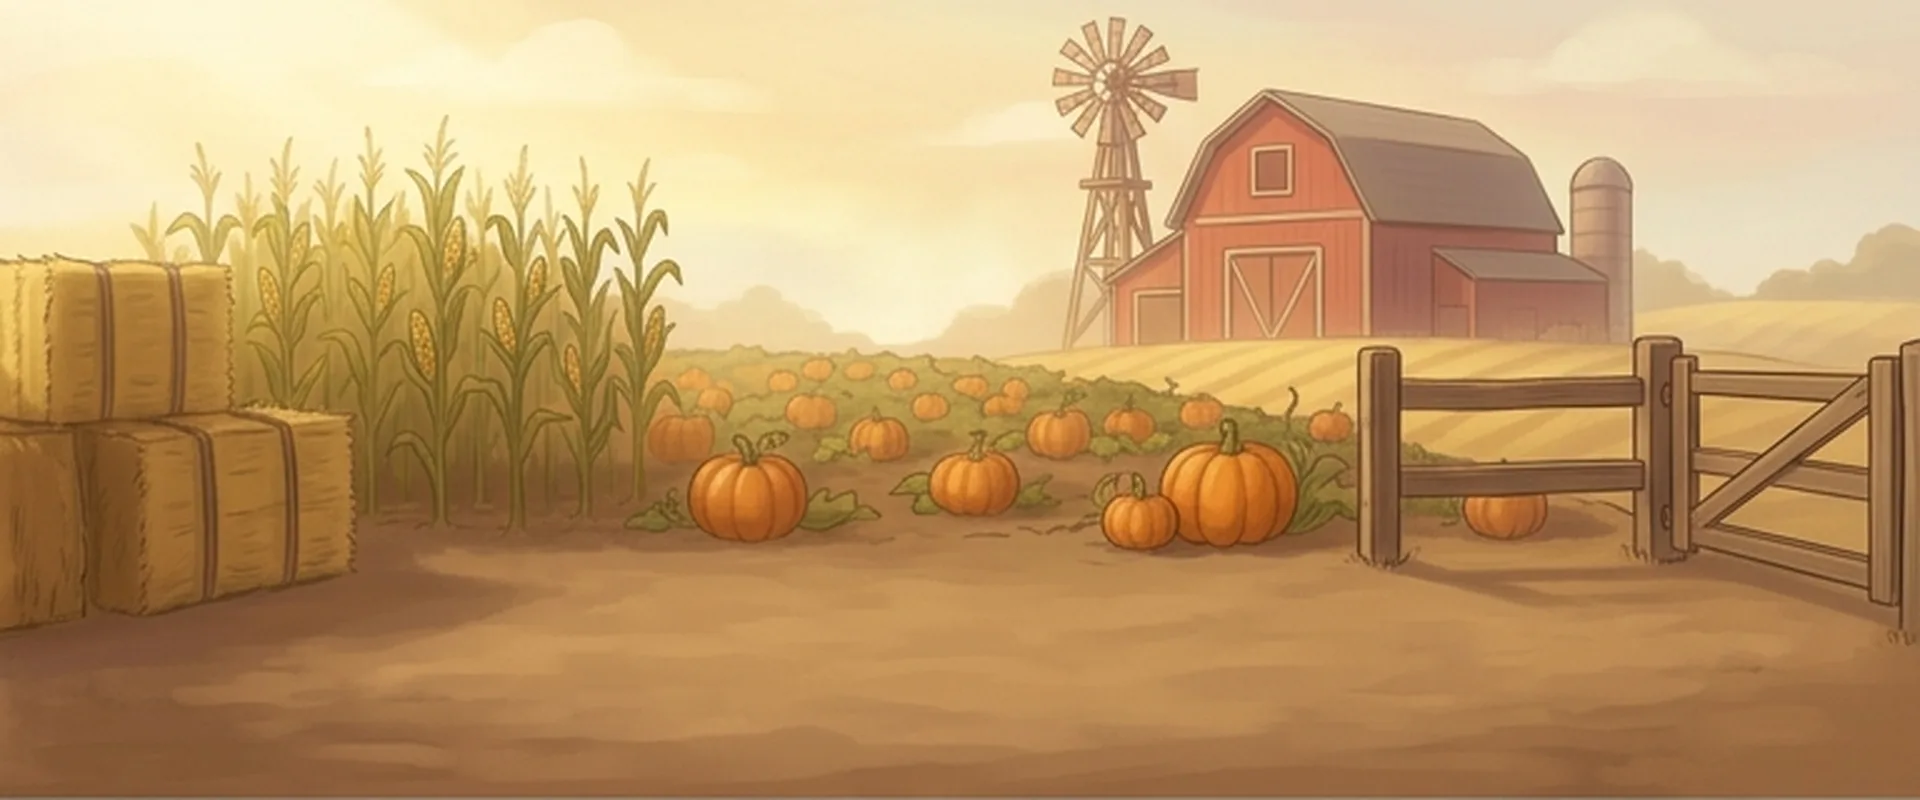
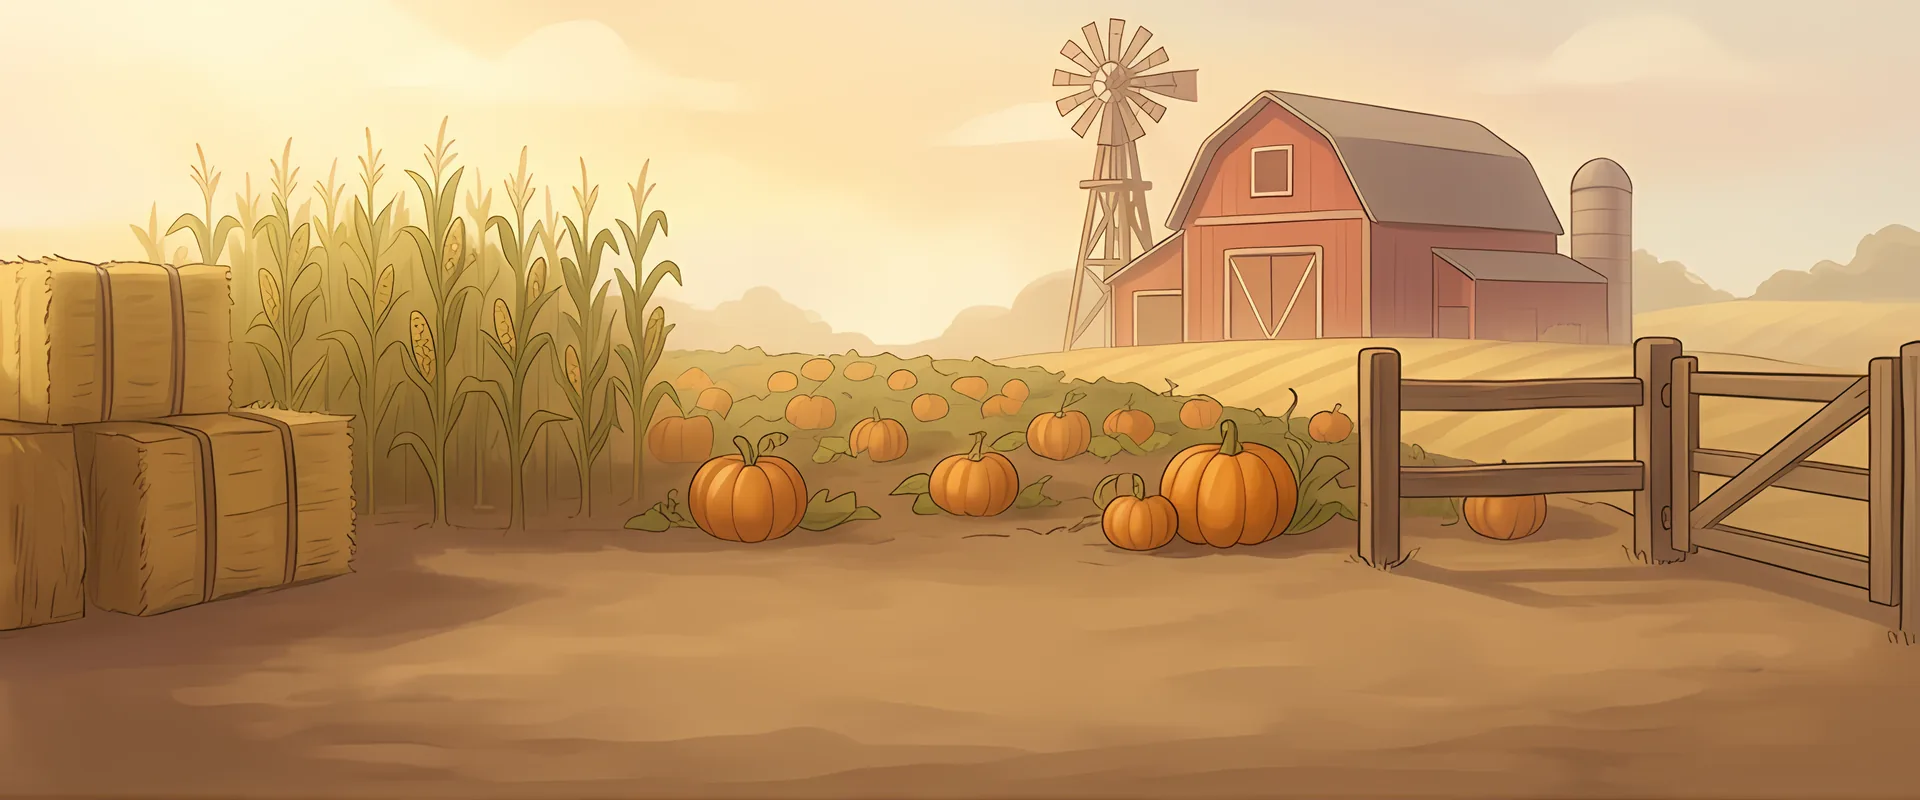
Backdrops: all sixteen, cut from new 3072-wide sheets
The first eight are re-cut from sharper sheets, four times as wide as
before, and the eight planned in sheets c and d are cut: Seaside Cove,
Mushroom Forest, Frozen Lake, Candy Hills, Grand Library, Clock Tower,
Starry Observatory and Stormy Peak. They wait for monsters to live in
them; the test now asks only that a backdrop be planned in scenes.json.

diff --git a/tests/backdrops.test.js b/tests/backdrops.test.js
@@ -55,13 +55,13 @@ describe("painted backdrops", () => {
     }
   });
 
-  it("are 1920 by 800, light enough to load quickly, and all in use", () => {
-    const used = new Set(BACKDROPS.map(b => b.file));
+  it("are 1920 by 800, light enough to load quickly, and all planned in scenes.json", () => {
+    const planned = new Set(sheets.flatMap(s => s.scenes.map(c => `assets/backdrops/${c.id}.webp`)));
     for (const name of readdirSync("assets/backdrops").filter(n => n.endsWith(".webp"))) {
       const file = `assets/backdrops/${name}`;
       assert.deepEqual(webpSize(readFileSync(file)), { width: 1920, height: 800 }, file);
       assert.ok(statSync(file).size <= 300 * 1024, `${file} is over 300 KB`);
-      assert.ok(used.has(file), `${file} is not used by src/backdrops.js`);
+      assert.ok(planned.has(file), `${file} is not planned in scenes.json`);
     }
   });
 });
